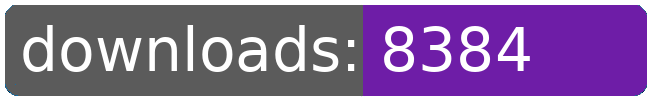
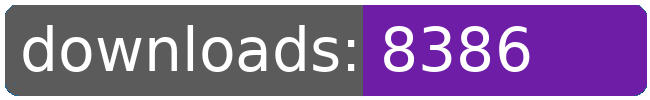
dl log written

Changed region(s): [[0.7692, 0.24, 0.8308, 0.72]]

diff --git a/README.md b/README.md
@@ -21,8 +21,8 @@
 		<td>8368</td>
 		<td>8374</td>
 		<td>8380</td>
-		<td>8384</td>
-		<td>+ 4</td>
+		<td>8386</td>
+		<td>+ 6</td>
 	</tr>
 	<tr>
 		<td>aberrant.kahet.outfitter</td>
@@ -274,8 +274,8 @@
 		<td></td>
 		<td></td>
 		<td></td>
-		<td>127014</td>
-		<td>51</td>
+		<td>127016</td>
+		<td>53</td>
 	</tr>
 </table>
 </sub></sup>
@@ -300,8 +300,8 @@
 		<td>8368</td>
 		<td>8374</td>
 		<td>8380</td>
-		<td>8384</td>
-		<td>+ 4</td>
+		<td>8386</td>
+		<td>+ 6</td>
 	</tr>
 	<tr>
 		<td>aberrant.kahet.outfitter</td>
@@ -553,8 +553,8 @@
 		<td></td>
 		<td></td>
 		<td></td>
-		<td>127014</td>
-		<td>51</td>
+		<td>127016</td>
+		<td>53</td>
 	</tr>
 </table>
 </sub></sup>
